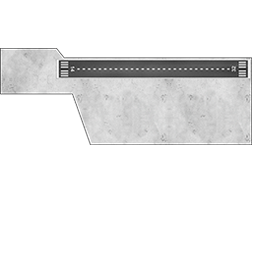
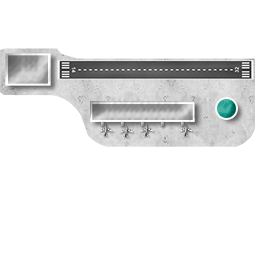
Airport graphics update
- Finalised airport graphic
- Minor tweaks to boxes for landing and takeoff

Changed region(s): [[0.0, 0.1875, 1.0, 0.5938]]

diff --git a/BTC/src/cls/Airport.java b/BTC/src/cls/Airport.java
@@ -44,14 +44,14 @@ public class Airport extends Waypoint {
 		this.x_location = x_location;
 		this.y_location = y_location;
 		this.scale = scale;
-		arrivals_x_location = x_location + (97 -airport.width()/2)*scale;
+		arrivals_x_location = x_location + (90 -airport.width()/2)*scale;
 		arrivals_y_location = y_location + (86 -airport.height()/2)*scale;
 		
 		runway_end_x_location = x_location +(120 -airport.width()/2)*scale;
-		runway_end_y_location = y_location +(69 -airport.height()/2)*scale;
+		runway_end_y_location = y_location +(68 -airport.height()/2)*scale;
 		
 		departures_x_location = x_location +(4 -airport.width()/2)*scale;
-		departures_y_location = y_location +(54 -airport.height()/2)*scale;
+		departures_y_location = y_location +(53 -airport.height()/2)*scale;
 	}
 	
 	private static void loadImage() {
